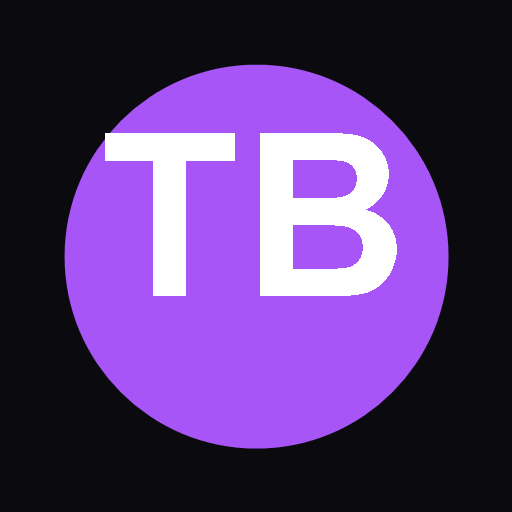
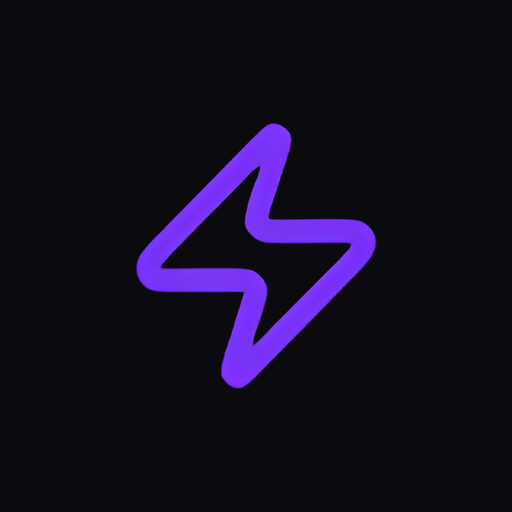
feat: Vercel deployment config

diff --git a/sw.js b/sw.js
@@ -1,10 +1,10 @@
 const CACHE = 'tecblitzweb-sos-v1';
 const ASSETS = [
-  '/tecblitzweb-salebsos/',
-  '/tecblitzweb-salebsos/index.html',
-  '/tecblitzweb-salebsos/main.js',
-  '/tecblitzweb-salebsos/api.js',
-  '/tecblitzweb-salebsos/config.js'
+  '/',
+  '/index.html',
+  '/main.js',
+  '/api.js',
+  '/config.js'
 ];
 
 self.addEventListener('install', e => {

diff --git a/index.html b/index.html
@@ -4,6 +4,7 @@
     <meta charset="UTF-8">
     <meta name="viewport" content="width=device-width, initial-scale=1.0">
     <title>TecBlitzWeb Sales OS</title>
+    <link rel="icon" href="favicon.png" type="image/png">
     <link href="https://fonts.googleapis.com/css2?family=Syne:wght@400;500;600;700;800&family=Outfit:wght@300;400;500;600;700&family=DM+Sans:wght@300;400;500&display=swap" rel="stylesheet">
     <link rel="manifest" href="manifest.json">
     <meta name="mobile-web-app-capable" content="yes">
@@ -9124,7 +9125,7 @@
     <script>
     if ('serviceWorker' in navigator) {
     window.addEventListener('load', function() {
-        navigator.serviceWorker.register('/tecblitzweb-salebsos/sw.js')
+        navigator.serviceWorker.register('/sw.js')
         .then(function(reg) { console.log('SW registered:', reg.scope); })
         .catch(function(err) { console.log('SW failed:', err); });
     });

diff --git a/generate_icons.py b/generate_icons.py
@@ -1,31 +1,18 @@
-from PIL import Image, ImageDraw, ImageFont
+from PIL import Image
 import os
 
 os.makedirs('icons', exist_ok=True)
 
+favicon = Image.open('favicon.png').convert('RGBA')
+
 for size in [192, 512]:
-    img = Image.new('RGB', (size, size), '#0a0a0f')
-    draw = ImageDraw.Draw(img)
-
-    # Purple circle background
-    margin = size // 8
-    draw.ellipse([margin, margin, size - margin, size - margin], fill='#A855F7')
-
-    # "TB" text
-    font_size = size // 3
-    try:
-        font = ImageFont.truetype("arial.ttf", font_size)
-    except OSError:
-        try:
-            font = ImageFont.truetype("C:/Windows/Fonts/arial.ttf", font_size)
-        except OSError:
-            font = ImageFont.load_default()
-
-    text = "TB"
-    bbox = draw.textbbox((0, 0), text, font=font)
-    tw = bbox[2] - bbox[0]
-    th = bbox[3] - bbox[1]
-    draw.text(((size - tw) // 2, (size - th) // 2 - size // 12), text, fill='white', font=font)
-
-    img.save(f'icons/icon-{size}.png')
+    img = Image.new('RGBA', (size, size), '#0a0a0f')
+    padding = size // 6
+    max_dim = size - 2 * padding
+    bolt = favicon.copy()
+    bolt.thumbnail((max_dim, max_dim), Image.Resampling.LANCZOS)
+    x = (size - bolt.width) // 2
+    y = (size - bolt.height) // 2
+    img.paste(bolt, (x, y), bolt)
+    img.convert('RGB').save(f'icons/icon-{size}.png')
     print(f'Created icon-{size}.png')